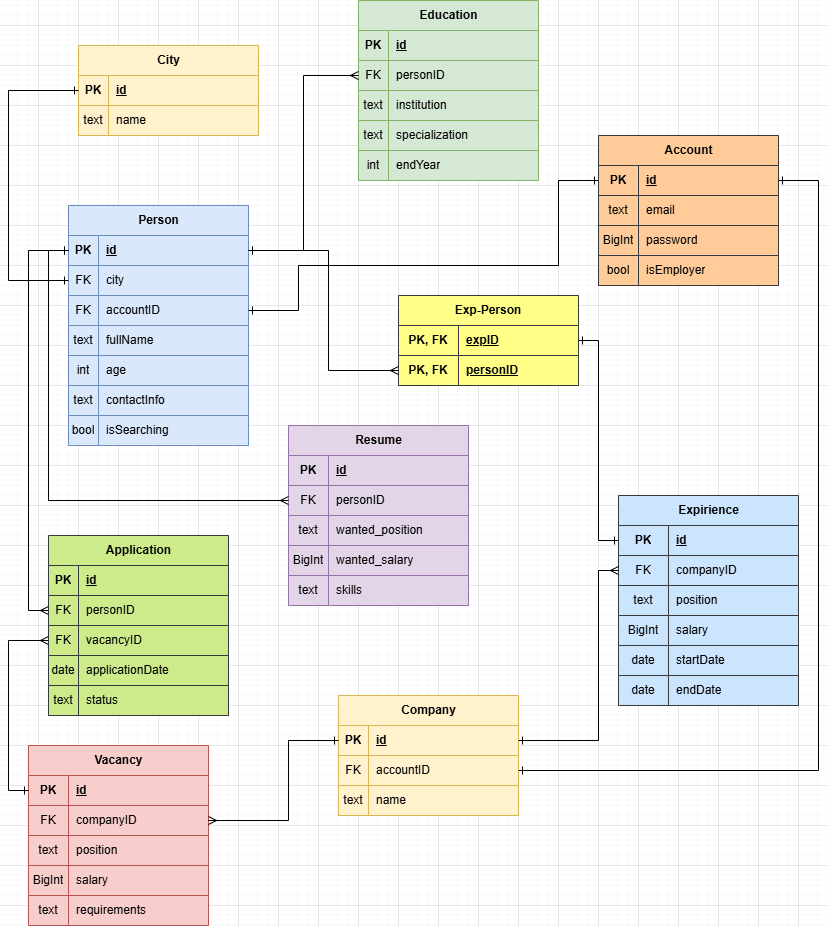
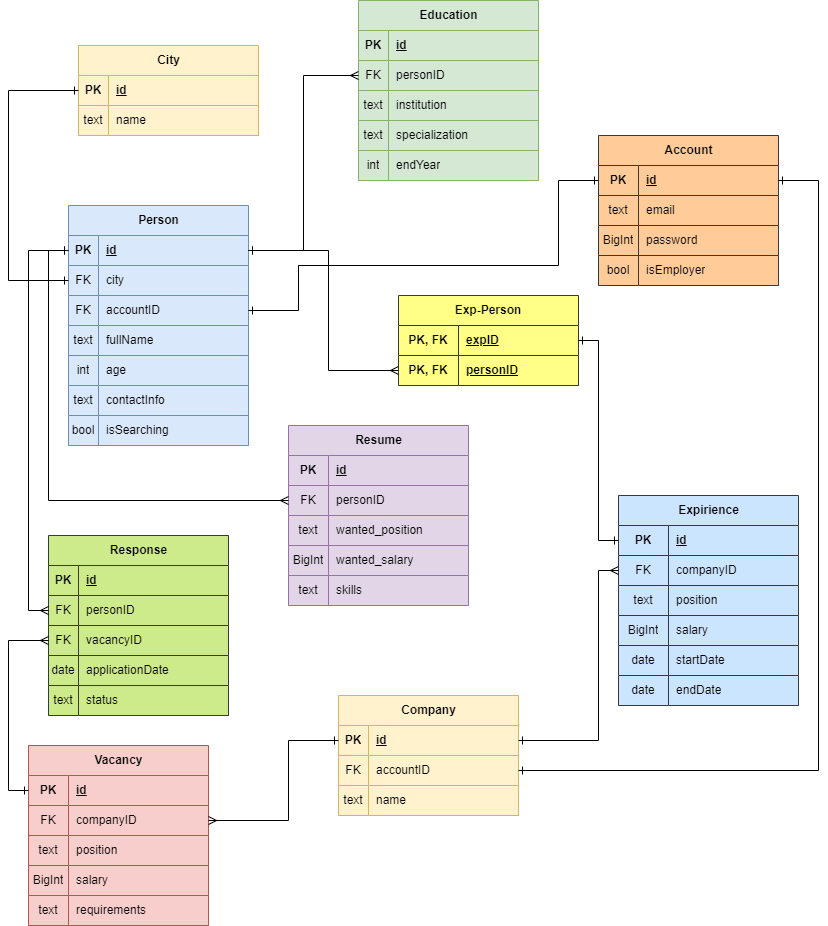
Added how to responce on vacancy + changed table's name for response

diff --git a/report/report1.md b/report/report1.md
@@ -98,7 +98,8 @@
 
 ### Вакансия
 
-На странице вакансии показаны все критерии: зарплата, должность, а также дополнительные требования, кнопка отклика на вакансию, название компании
+На странице вакансии показаны все критерии: зарплата, должность, а также дополнительные требования, кнопка отклика на вакансию, название компании.
+Также соискатели на этой странице могут нажать кнопку, чтобы добавить отклик ("откликнуться") на данную вакансию
 
 ### Поиск резюме
 
